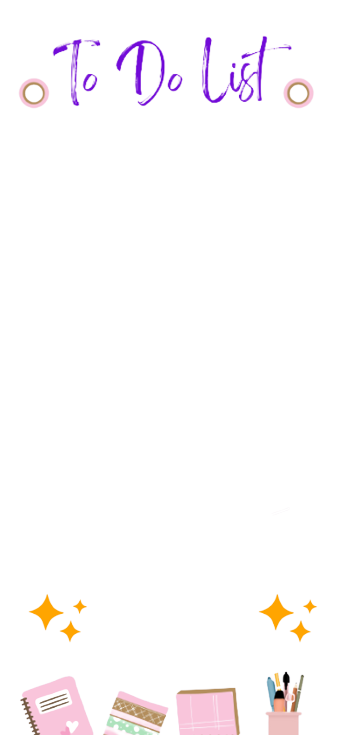
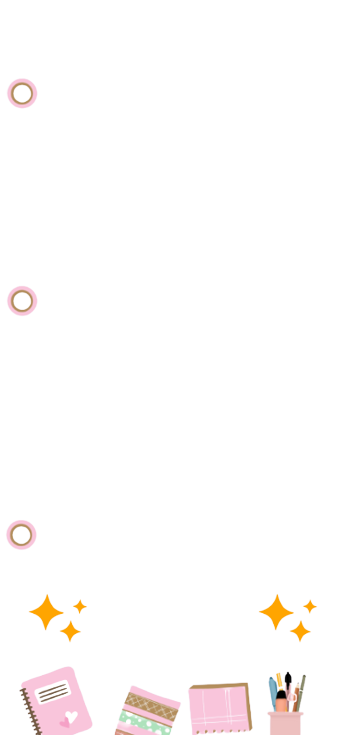
created page two

diff --git a/src/app/components/pages/viewone/viewone.component.html b/src/app/components/pages/viewone/viewone.component.html
@@ -1,17 +1,16 @@
-<div class="itemOne">
-    <svg width="50" height="50" viewBox="0 0 64 64" fill="none" xmlns="http://www.w3.org/2000/svg"
-        xmlns:xlink="http://www.w3.org/1999/xlink">
-        <rect width="64" height="64" fill="url(#pattern0)" />
-        <defs>
-            <pattern id="pattern0" patternContentUnits="objectBoundingBox" width="1" height="1">
-                <use xlink:href="#image0_35_2" transform="scale(0.015625)" />
-            </pattern>
-            <image id="image0_35_2" width="64" height="64"
[1 lines of base64/hex data omitted]
-        </defs>
-    </svg>
-    <p class="text-center text-gray-500 dark:text-gray-400">Checklist</p>
-    <button
-        class="focus:outline-none text-white bg-yellow-400 hover:bg-yellow-500 focus:ring-4 focus:ring-yellow-300 font-medium rounded-lg text-sm px-5 py-2.5 mr-2 mb-2 dark:focus:ring-yellow-900"
-        [routerLink]="link"></button>
+<div class="itemOne flex items-center mr-5 mx-auto my-2 mt-7 ml-4 space-x-4">
+    <img src="../../../../assets/icons/checklist.svg" alt="Checklist">
+
+    <p class="text-center text-gray-900 dark:text-gray-400">Checklist</p>
+    <button [ngClass]="buttonClass" [routerLink]="'/view-two'">Created New</button>
+
+</div>
+<br>
+<div class="itemOne flex items-center mr-5 mx-auto my-2 mt-7 ml-4 space-x-4">
+    <img src="../../../../assets/icons/notes.svg" alt="Block Notes">
+
+
+    <p class="text-center text-gray-900 dark:text-gray-400">Make a nota</p>
+    <button [ngClass]="buttonClass" [routerLink]="'/view-two'">Created New</button>
+
 </div>

diff --git a/src/app/view-two/view-two.component.html b/src/app/view-two/view-two.component.html
@@ -1,0 +1,45 @@
+<div class="bg-pink-100 rounded-lg shadow overflow-hidden">
+    <form (ngSubmit)="guardarTarea()" class="p-2">
+        <div class="mb-4">
+            <label class="block text-gray-700 font-bold mb-2">Título</label>
+            <input [(ngModel)]="titulo" name="titulo" type="text"
+                class="appearance-none border-none rounded w-full py-2 px-3 text-gray-700 leading-tight focus:outline-none focus:shadow-outline">
+        </div>
+        <div class="mb-2">
+            <label class="block text-gray-700 font-bold mb-2">Descripción</label>
+            <textarea [(ngModel)]="descripcion" name="descripcion"
+                class="appearance-none border-none rounded w-full py-2 px-3 text-gray-700 leading-tight focus:outline-none focus:shadow-outline"></textarea>
+        </div>
+        <div class="flex items-center justify-between">
+            <button type="submit"
+                class="text-black font-bold py-2 px-4 rounded focus:outline-none focus:shadow-outline">
+                <img src="../../assets/icons/add.svg" alt="">
+                {{ tareaSeleccionada ? 'Guardar cambios' : 'Add item' }}
+            </button>
+
+            <button *ngIf="tareaSeleccionada" (click)="cancelarEdicion()">
+                <img src="../../assets/icons/cancel.svg" alt="">
+            </button>
+        </div>
+    </form>
+
+    <ul class="divide-y divide-gray-200">
+        <li *ngFor="let tarea of tareas" class="px-4 py-4 sm:px-6">
+            <div class="flex items-center justify-between">
+                <p class="text-lg font-medium text-gray-900">{{ tarea.titulo }}</p>
+
+                <button (click)="editarTarea(tarea)">
+                    <img src="../../assets/icons/update.svg" alt="editar">
+                </button>
+
+                <div class="ml-2 flex-shrink-0">
+                    <button (click)="eliminarTarea(tarea.id)">
+                        <img src="../../assets/icons/delete.svg" alt="delete">
+                    </button>
+                </div>
+            </div>
+            <p class="mt-1 text-gray-500">{{ tarea.descripcion }}</p>
+        </li>
+    </ul>
+
+</div>

diff --git a/src/app/view-two/view-two.component.ts b/src/app/view-two/view-two.component.ts
@@ -1,0 +1,56 @@
+import { Component  } from '@angular/core';
+
+@Component({
+  selector: 'app-view-two',
+  templateUrl: './view-two.component.html',
+  styleUrls: ['./view-two.component.css']
+})
+export class ViewTwoComponent {
+  tareas: { id: number, titulo: string, descripcion: string }[] = [];
+  titulo = '';
+  descripcion = '';
+  tareaSeleccionada: { id: number, titulo: string, descripcion: string } | null = null;
+
+  agregarTarea() {
+    const id = this.tareas.length + 1;
+    this.tareas.push({id, titulo: this.titulo, descripcion: this.descripcion});
+    this.titulo = '';
+    this.descripcion = '';
+  }
+
+  editarTarea(tarea: { id: number, titulo: string, descripcion: string }) {
+    this.tareaSeleccionada = tarea;
+    this.titulo = tarea.titulo;
+    this.descripcion = tarea.descripcion;
+  }
+
+  eliminarTarea(id: number) {
+    this.tareas = this.tareas.filter(t => t.id !== id);
+  }
+
+  guardarTarea() {
+    if (this.tareaSeleccionada !== null) {
+      const tareaActualizada = {
+        id: this.tareaSeleccionada.id,
+        titulo: this.titulo,
+        descripcion: this.descripcion
+      };
+      const tareaIndex = this.tareas.findIndex(t => t.id === tareaActualizada.id);
+      this.tareas[tareaIndex] = tareaActualizada;
+      this.titulo = '';
+      this.descripcion = '';
+      this.tareaSeleccionada = null;
+    } else {
+      const id = this.tareas.length + 1;
+      this.tareas.push({id, titulo: this.titulo, descripcion: this.descripcion});
+      this.titulo = '';
+      this.descripcion = '';
+    }
+  }
+
+  cancelarEdicion() {
+    this.tareaSeleccionada = null;
+    this.titulo = '';
+    this.descripcion = '';
+  }
+}

diff --git a/src/app/app.module.ts b/src/app/app.module.ts
@@ -7,6 +7,8 @@ import { GridComponent } from '../app/components/grid/grid.component';
 import { ButtonComponent } from '../app/components/button/button.component';
 import { HomeComponent } from './components/pages/home/home.component';
 import { ViewoneComponent } from './components/pages/viewone/viewone.component';
+import { ViewTwoComponent } from './view-two/view-two.component';
+import { FormsModule } from '@angular/forms';
 
 @NgModule({
   declarations: [
@@ -15,11 +17,13 @@ import { ViewoneComponent } from './components/pages/viewone/viewone.component';
     ButtonComponent,
     HomeComponent,
     ViewoneComponent,
+    ViewTwoComponent,
  
   ],
   imports: [
     BrowserModule,
-    AppRoutingModule
+    AppRoutingModule,
+    FormsModule
   ],
   providers: [],
   bootstrap: [AppComponent]

diff --git a/src/app/view-two/view-two.component.spec.ts b/src/app/view-two/view-two.component.spec.ts
@@ -1,0 +1,23 @@
+import { ComponentFixture, TestBed } from '@angular/core/testing';
+
+import { ViewTwoComponent } from './view-two.component';
+
+describe('ViewTwoComponent', () => {
+  let component: ViewTwoComponent;
+  let fixture: ComponentFixture<ViewTwoComponent>;
+
+  beforeEach(async () => {
+    await TestBed.configureTestingModule({
+      declarations: [ ViewTwoComponent ]
+    })
+    .compileComponents();
+
+    fixture = TestBed.createComponent(ViewTwoComponent);
+    component = fixture.componentInstance;
+    fixture.detectChanges();
+  });
+
+  it('should create', () => {
+    expect(component).toBeTruthy();
+  });
+});

diff --git a/src/app/app-routing.module.ts b/src/app/app-routing.module.ts
@@ -2,10 +2,12 @@ import { NgModule } from '@angular/core';
 import { RouterModule, Routes } from '@angular/router';
 import { HomeComponent } from './components/pages/home/home.component';
 import { ViewoneComponent } from './components/pages/viewone/viewone.component';
+import { ViewTwoComponent } from './view-two/view-two.component';
 
 const routes: Routes = [
   {path: '', component: HomeComponent},
   {path: 'viewone', component: ViewoneComponent},
+  {path: 'view-two', component: ViewTwoComponent}
 ];
 
 @NgModule({

diff --git a/src/index.html b/src/index.html
@@ -8,6 +8,11 @@
   <meta name="viewport" content="width=device-width, initial-scale=1">
   <link rel="icon" type="image/x-icon" href="favicon.ico">
   <link href="/dist/output.css" rel="stylesheet">
+  <link rel="preconnect" href="https://fonts.googleapis.com">
+  <link rel="preconnect" href="https://fonts.gstatic.com" crossorigin>
+  <link href="https://fonts.googleapis.com/css2?family=Gloria+Hallelujah&family=The+Girl+Next+Door&display=swap"
+    rel="stylesheet">
+
 </head>
 
 <body>

diff --git a/src/app/components/button/button.component.ts b/src/app/components/button/button.component.ts
@@ -6,6 +6,8 @@ import { Component, Input } from '@angular/core';
   styleUrls: ['./button.component.css']
 })
 export class ButtonComponent {
+
+  buttonClass= "text-gray-900 bg-gradient-to-r from-red-200 via-red-300 to-yellow-200 hover:bg-gradient-to-bl focus:ring-4 focus:outline-none focus:ring-red-100 dark:focus:ring-red-400 font-medium rounded-lg text-sm px-4 py-2 text-center flex justify-center items-center my-button-class"
   @Input() name: string;
   @Input() link: string;
 

diff --git a/src/app/components/pages/viewone/viewone.component.ts b/src/app/components/pages/viewone/viewone.component.ts
@@ -6,6 +6,10 @@ import { Component } from '@angular/core';
   styleUrls: ['./viewone.component.css']
 })
 export class ViewoneComponent {
-link: string|any[]|null|undefined;
 
-}
+      buttonClass = 'text-white bg-gradient-to-br from-purple-500 to-blue-400 hover:bg-gradient-to-bl focus:ring-4 focus:outline-none focus:ring-blue-200 dark:focus:ring-blue-700 font-medium rounded-lg text-sm px-3 py-2 text-center mr-2 mb-2'
+
+} 
+
+
+

diff --git a/src/app/components/button/button.component.html b/src/app/components/button/button.component.html
@@ -1,5 +1,3 @@
-<button
-    class="text-gray-900 bg-gradient-to-r from-red-200 via-red-300 to-yellow-200 hover:bg-gradient-to-bl focus:ring-4 focus:outline-none focus:ring-red-100 dark:focus:ring-red-400 font-medium rounded-lg text-sm px-4 py-2 text-center flex justify-center items-center"
-    [routerLink]="link">
+<button [ngClass]="buttonClass" [routerLink]="link">
     {{ name }}
 </button>

diff --git a/src/app/app.component.html b/src/app/app.component.html
@@ -1,4 +1,8 @@
 <div class="bg-image bg-pink-100 h-screen bg-no-repeat bg-cover">
-    <h1 class="text-purple-600/75 dark:text-blue-500/75 text-4xl font-extrabold text-center ">To Do list </h1>
+    <h1 class="text-purple-600/75 dark:text-blue-500/75 text-6xl font-gloria-hallelujah font-bold text-center">To Do
+        list</h1>
+
+
+
 
     <router-outlet></router-outlet>

diff --git a/src/app/components/pages/home/home.component.css b/src/app/components/pages/home/home.component.css
@@ -4,7 +4,7 @@
 }
 
 .containerHome {
-  background-image: url("src/assets/images/fondo.png");
+  background-image: url("src/assets/images/background.png");
   background-repeat: no-repeat;
   background-size: 100%;
 }
